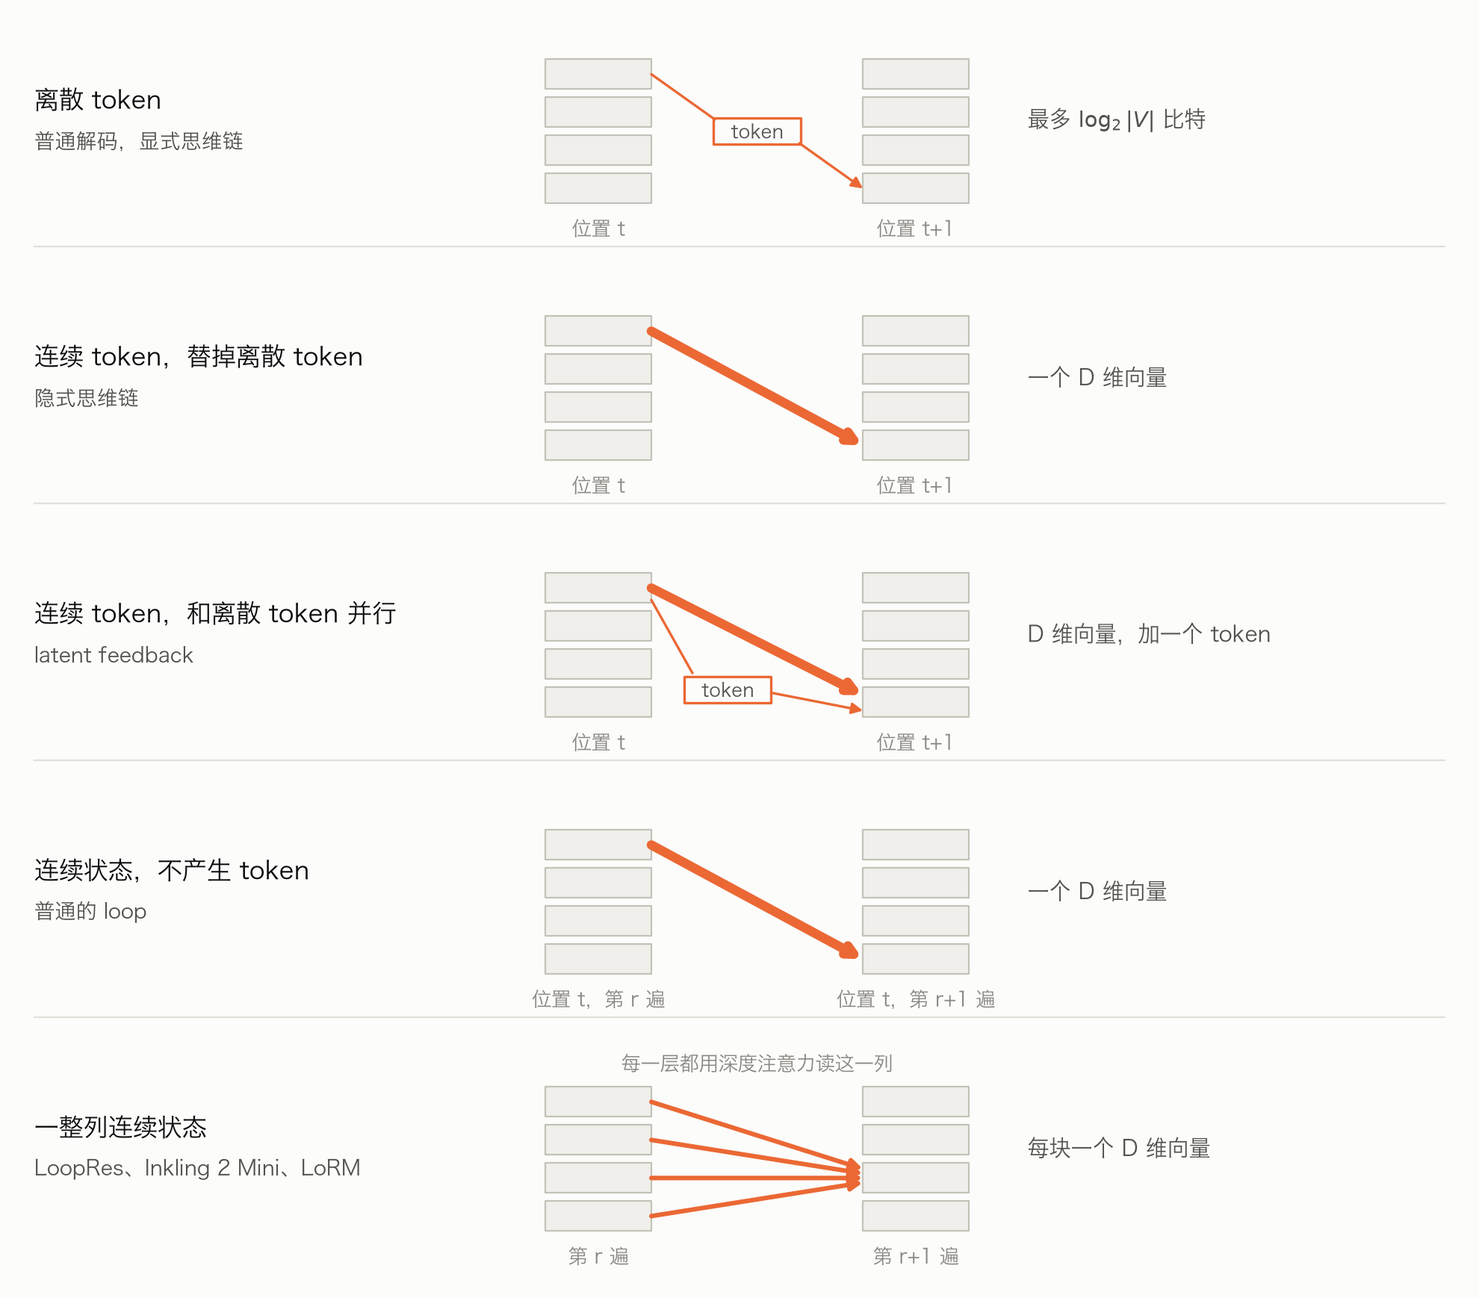
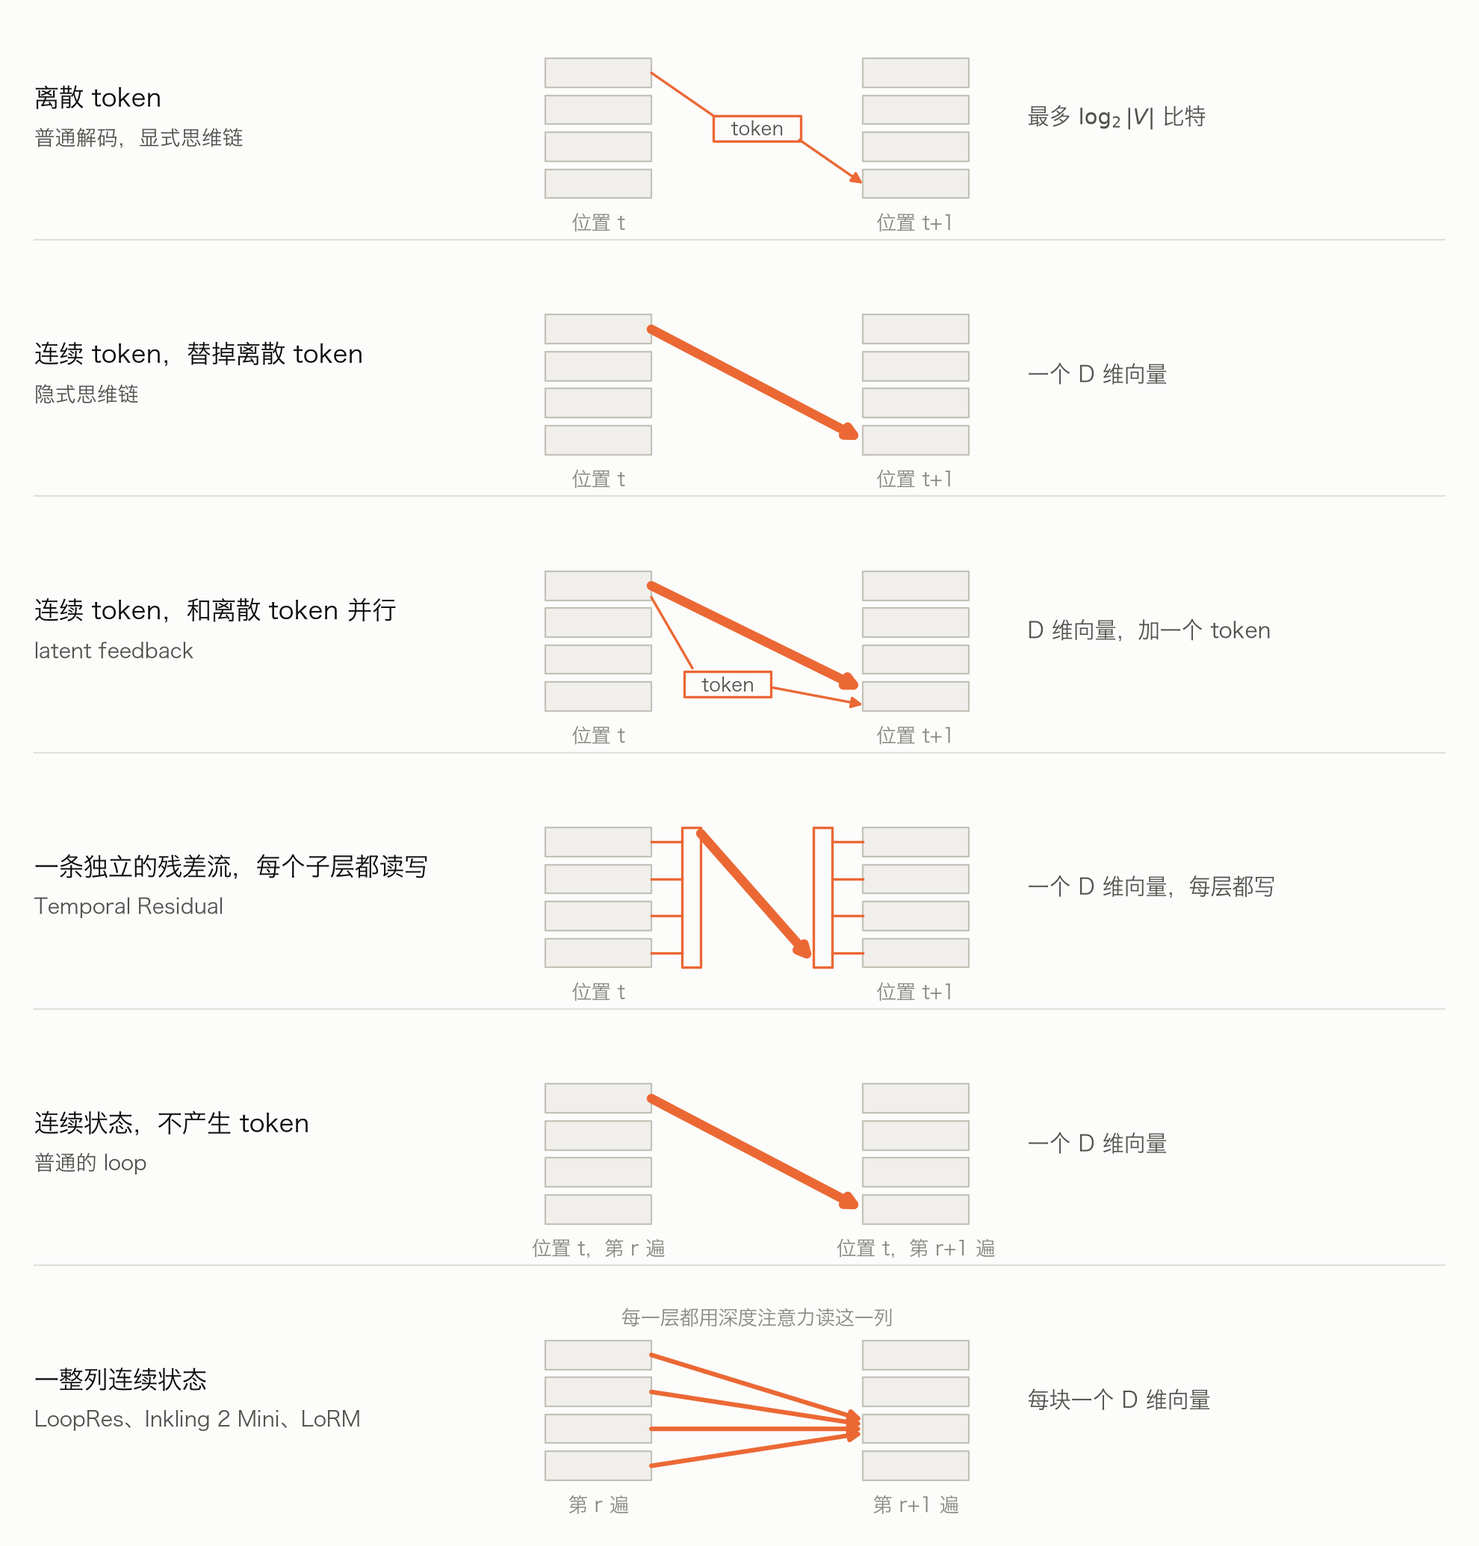
Add the temporal residual and the variable-loop model to the diffusion forcing post

diff --git a/blog/diffusion-forcing-duality/index.html b/blog/diffusion-forcing-duality/index.html
@@ -130,6 +130,31 @@
         </table>
         </div>
         <p>序列建模当年用注意力换掉了 RNN。AttnRes 在深度轴上做了同一步。论文把这叫 time–depth duality。</p>
+        <p>对偶也可以反着走。AttnRes 把注意力从时间搬到深度；把残差流从深度搬到时间，就是最近的 Temporal Residual。它给模型加第二条残差流，每个子层都读写，这条流在一个 token 结束时的值，归一化后成为下一个 token 的初值。论文自己的说法是，这是一条既跨层也跨 token 的残差连接。</p>
+        <p>这样四个格子就齐了：</p>
+        <div class="table-responsive">
+        <table class="table table-sm">
+        <thead>
+        <tr>
+        <th></th>
+        <th>递推：固定大小的状态</th>
+        <th>注意力：留着随用随取</th>
+        </tr>
+        </thead>
+        <tbody>
+        <tr>
+        <td>深度</td>
+        <td>残差流</td>
+        <td>AttnRes</td>
+        </tr>
+        <tr>
+        <td>时间</td>
+        <td>RNN，Temporal Residual</td>
+        <td>自注意力</td>
+        </tr>
+        </tbody>
+        </table>
+        </div>
         <p>有两处不严格。时间轴上的 query 由内容算出，深度轴上的 \(w_l\) 和输入无关。深度轴的"序列"是网络自己一层层生成的，\(v_l\) 要等前面的层算完才有。</p>
         <p>这个对偶只动了一根轴。被对偶的对象是一个序列模型，它本身只有时间这一根轴。如果被对偶的对象有两根轴呢？</p>
         <h2>2. 一个有两根轴的对象：diffusion forcing</h2>
@@ -278,6 +303,11 @@
         <td>latent feedback</td>
         </tr>
         <tr>
+        <td>一条独立的残差流，每个子层都读写</td>
+        <td>带到下一个 token</td>
+        <td>Temporal Residual</td>
+        </tr>
+        <tr>
         <td>一个连续状态，不产生 token</td>
         <td>同一个位置重算</td>
         <td>普通的 loop</td>
@@ -291,27 +321,39 @@
         </table>
         </div>
         <figure>
-        <img src="fig2_ladder.png" alt="图 2：五种做法的差别只在两处，遍与遍之间传多少（线的粗细和条数），以及传到哪。">
-        <figcaption class="note">图 2：五种做法的差别只在两处，遍与遍之间传多少（线的粗细和条数），以及传到哪。</figcaption>
+        <img src="fig2_ladder.png" alt="图 2：六种做法的差别只在两处，遍与遍之间传多少（线的粗细和条数），以及传到哪。">
+        <figcaption class="note">图 2：六种做法的差别只在两处，遍与遍之间传多少（线的粗细和条数），以及传到哪。</figcaption>
         </figure>
+        <p>沿着梯子往下，遍与遍之间传得越多，需要写出来的就越少。有两组数字：</p>
+        <ul>
+        <li><strong>Loop 的遍数。</strong> Thinking Machines 放出了一个遍数可调的研究模型。在 GPQA 上它每种遍数都答对的那些题，1 遍时平均写 3703 个推理 token，3 遍 1731 个，5 遍 1661 个，句子长度和用词没有变化。</li>
+        <li><strong>Latent feedback。</strong> Temporal Residual 改装后的模型，解题写的 token 少 9% 到 16%。把一部分推理换成填充 token 再训练，它在不写任何推理的情况下，GSM8K 的准确率从 21% 升到 40%；把带过去的状态清零，增益就没了。不带这条流的模型同样训练，填充 token 没有用。</li>
+        </ul>
+        <p>所以离散的回路和连续的回路可以互相替代。这也是它对监控重要的原因：推理可以不出现在文字里。</p>
         <h3>Loop 和 latent feedback 是同一个递推的两种跑法</h3>
         <p>Latent feedback 把上一个位置的顶层状态送回下一个位置的输入：</p>
         \[
         h_t = f\big(e_t,\; h_{t-1}\big)
         \]
         <p>这里 \(e_t\) 是第 \(t\) 个 token 的 embedding，\(f\) 是整叠层，它还会通过注意力读前面位置的状态。这样每来一个新 token，隐藏状态就被再细化一遍，解码时不用多跑。</p>
+        <p>上面是最简单的形式。Temporal Residual 把这条回路做成一条独立的残差流 \(B\)，和原来的残差流 \(A\) 并排：</p>
+        \[
+        u = r_A A + r_B B, \qquad y = f(u), \qquad A \leftarrow A + y, \qquad B \leftarrow B + s_B\, y
+        \]
+        <p>每个子层有自己的读权重 \(r_B\) 和写强度 \(s_B\)，\(B\) 在最后一层的值归一化后带到下一个 token。\(r_B\) 的初值是 0，所以改装后的模型一开始就是原模型。从哪一层取、送到哪一层，不用设计，由训练决定。解码是精确的逐 token 递推，每个序列只多存一个向量。</p>
         <p>Loop 是在同一个位置上反复算。Latent feedback 是把同一条回路摊到 token 轴上。噪声级在 loop transformer 里是 loop 的次数，在带 latent feedback 的 transformer 里就是序列位置。对不带反馈的普通 transformer，这句话不成立：新 token 带来的是新信息，不是对同一个状态的细化。</p>
         <h3>"遍"是什么：一个三角方程组的 Jacobi 迭代</h3>
         <p>逐 token 解码是前向代入，结果是精确的。训练时不能逐 token 跑，于是并行跑几遍，每一遍用上一遍的值：</p>
         \[
         h_t^{(p)} = f\big(e_t,\; h_{t-1}^{(p-1)}\big), \qquad h^{(0)} = 0
         \]
-        <p>这是对一个下三角方程组做 Jacobi 迭代。对 \(p\) 归纳就能看出它收敛得多快：位置 1 没有前驱，第 1 遍后就是精确的；位置 \(t\) 只依赖位置 \(t-1\) 及更早的位置在上一遍的状态，所以 \(t \le p\) 的位置在第 \(p\) 遍后都是精确的。</p>
+        <p>这是对一个下三角方程组做 Jacobi 迭代，精确的递推是它的不动点。Temporal Residual 的论文就是这样表述的。对 \(p\) 归纳就能看出它收敛得多快：位置 1 没有前驱，第 1 遍后就是精确的；位置 \(t\) 只依赖位置 \(t-1\) 及更早的位置在上一遍的状态，所以 \(t \le p\) 的位置在第 \(p\) 遍后都是精确的。</p>
         <figure>
         <img src="fig3_jacobi.png" alt="图 3：并行跑 遍后，哪些位置已经等于逐 token 解码的结果。这是一个随机权重的小网络，8 个位置，数值来自核对脚本。精确的区域每遍向右推进一格。">
         <figcaption class="note">图 3：并行跑 \(p\) 遍后，哪些位置已经等于逐 token 解码的结果。这是一个随机权重的小网络，8 个位置，数值来自核对脚本。精确的区域每遍向右推进一格。</figcaption>
         </figure>
         <p>实际远不用跑满。Full-bandwidth Transformer 报告 3 到 4 遍后 KV 的相对误差约 1%。IFM 的 latent feedback transformer（代码库叫 LoRM）直接用 4 遍当作逐 token 解码。但这不是白来的：前者发现只用一遍和两遍的 batch 训练时，递推滚过训练深度就会发散，混入 3% 的三遍 batch 才稳定下来。</p>
+        <p>少跑几遍够不够，取决于怎么训。Temporal Residual 比了八种训法。只用两遍训的模型，两遍时 loss 最低，八遍时最差，逐 token 解码的准确率和不带反馈的模型一样。跑六遍、只对最后两遍反传，loss 在三遍到八遍之间只差 0.0001。作者的解释是，截断反传让每一遍学的是：不管拿到什么状态，都把它变好一点。按我的读法，这正是一个去噪器该有的性质，在任何噪声级上都能往前走一步。</p>
         <p>训练用整序列并行的遍，解码用自回归。这正是 diffusion forcing 的"训练一次，采样时换 schedule"，已经有人在用了。</p>
         <h3>对偶在这里多给了什么</h3>
         <ul>
@@ -331,7 +373,7 @@
         <li>告诉读取方这是第几遍。Diffusion forcing 是把噪声级作为输入的。</li>
         </ol>
         <p>过去几个月里有三个模型做了前两样，其中一个做了第三样。</p>
-        <p><strong>Inkling 2 Mini</strong>（Thinking Machines，11 月 20 日）有 24 层，分成 4 个块，每块 6 层。第 1 块跑一遍，第 2、3 块 loop 三遍，第 4 块跑一遍。块内用 AttnRes。从第二遍起，每个子层对上一遍的第 2、3 块做一次深度注意力，得到一个 message，再经过一个低秩的门混进自己的输入。</p>
+        <p><strong>Inkling 2 Mini</strong>（Thinking Machines，11 月 20 日）有 24 层，分成 4 个块，每块 6 层。第 1 块跑一遍，第 2、3 块 loop 三遍，第 4 块跑一遍。块内用 AttnRes。从第二遍起，每个子层对上一遍的第 2、3 块做一次深度注意力，得到一个 message，再经过一个低秩的门混进自己的输入。门一开始把 message 完全挡住，所以训练是从不循环的模型出发的。</p>
         <p><strong>LoopRes</strong>（NUS）在预训练模型上微调出 loop。循环的那一段用 AttnRes，每个子层的源包括：不循环的前段的输出，上一 loop 的所有块，本 loop 里前面的块。它另外加了两样：每个块在每个 loop 有一个可训练的 key，以及只看上一个 loop 的窗口。</p>
         <p><strong>LoRM 的 AttnRes 加 latent feedback</strong>（IFM，只有代码）是 134M 的模型，12 层 6 个块。它把上一个位置的 6 个块作为额外的源，放进每一次深度读取。</p>
         <div class="table-responsive">
@@ -384,7 +426,7 @@
         <tr>
         <td>每个 token 独立的噪声级</td>
         <td>每层自己的 loop 次数</td>
-        <td>没有，固定 3 遍</td>
+        <td>没有。固定 3 遍，研究版整段一起变</td>
         <td>没有，固定</td>
         <td>没有</td>
         </tr>
@@ -392,7 +434,7 @@
         </table>
         </div>
         <p>有三点值得看。</p>
-        <p><strong>读法和对偶说的一样。</strong> Goodfire 分解了 Inkling 2 Mini 每一层的输入，发现第 3 块在后面的 loop 里几乎总是读自己上一 loop 的输出。这就是"读自己上一遍的值"。LoopRes 的分析类似：循环段的第一个块主要在更新自己上一 loop 的输出，第二个块主要依赖本 loop 的第一个块。LoRM 的第二遍读的是第一遍的第 5 到 10 层，不是顶层，而且只在自己的前 8 层读。</p>
+        <p><strong>读法和对偶说的一样。</strong> Goodfire 分解了 Inkling 2 Mini 每一层的输入，发现第 3 块在后面的 loop 里几乎总是读自己上一 loop 的输出。这就是"读自己上一遍的值"。LoopRes 的分析类似：循环段的第一个块主要在更新自己上一 loop 的输出，第二个块主要依赖本 loop 的第一个块。LoRM 的第二遍读的是第一遍的第 5 到 10 层，不是顶层，而且只在自己的前 8 层读。Temporal Residual 让每个子层自己学读写的权重，学出来也集中在中间：32 层里读的权重在第 15 层最高，写的强度从第 20 层往上不到 0.1，最上面三分之一的层几乎不写。</p>
         <p><strong>增益主要来自跨遍的深度读取。</strong> LoopRes 在 Qwen3-1.7B、两倍算力下，7 项评测的平均分是：Huginn 式的 loop 49.0，加上朴素的 AttnRes 53.9，LoopRes 55.8。LoRM 在相同训练算力下的验证 loss：</p>
         <div class="table-responsive">
         <table class="table table-sm">
@@ -422,7 +464,7 @@
         </tbody>
         </table>
         </div>
-        <p>只送回顶层不如不送，送回一整列才有收益。这一档的差距只有 0.004，数据多四倍的那一档是 0.017（2.3390 对 2.3556）。这是假设 1 目前仅有的直接证据，而且是他们报告的数字。</p>
+        <p>只送回顶层不如不送，送回一整列才有收益。这一档的差距只有 0.004，数据多四倍的那一档是 0.017（2.3390 对 2.3556）。Temporal Residual 在改装预训练模型的设置里有一个同方向的结果：把上一个 token 的顶层状态直接送进输入，只拿到它五分之一的增益。这两条是假设 1 目前的证据，都是他们报告的数字。后一条没有用深度注意力，只说明只送顶层不够。</p>
         <p><strong>读取方要被告知级别。</strong> LoopRes 发现靠内容分不开同一个块的各次迭代，直接优化的、按 loop 分的 key 才分得开。去掉它，四倍算力下的平均分从 57.8 掉到 55.8。</p>
         <p>Inkling 2 Mini 没有按遍分的参数，但 Goodfire 发现模型自己长出了一个：坐标 \(d_{2027}\) 在前两遍的末尾被写成很大的正值，RMS 归一化后平均 +32.4，一个坐标占了平方范数的 46%；到最后一遍又被清掉。它是下一遍决定"读第 3 块还是第 2 块"时贡献最大的几个坐标之一。Goodfire 的推测是最后一遍之后不再需要跨 loop 通信，所以模型把它抹掉。按我的读法，没人给它级别信号，它就自己腾出一个坐标来记。</p>
         <blockquote class="callout">
@@ -437,6 +479,7 @@
         <p>两边都是先读一个还没细化完的值，之后再修。这也正是 diffusion forcing 本来就允许的事：读还没去噪完的历史。</p>
         <h2>6. 还空着的一格：每层自己的 loop 次数</h2>
         <p>上一节的表里，最后一行三个模型都是"没有"。而这一行正是 diffusion forcing 名字的来历：训练时每个 token 有独立的噪声级。对偶过来，是每一层有自己的更新次数。</p>
+        <p>最接近的是 Thinking Machines 和 Inkling 2 Mini 一起放出的研究模型 TML-d24-varloop-research。它的中间 12 层在训练时跑 1 到 5 遍，按 1:2:6:2:1 采样，推理时遍数可以自己选。这相当于训练时随机取噪声级，但所有 token 取同一个。Huginn 更早做过同样的事。还空着的是每一层取各自的次数。</p>
         <h3>执行表</h3>
         <p>用第 3 节的记号，再加一张表 \(S_{k,i} \in \{0,1\}\)，表示第 \(k\) 遍里第 \(i\) 个格子是否更新。Diffusion forcing 的 schedule 矩阵和"哪一遍跑哪些层"是同一个对象。现有的架构各是一张填好的表：</p>
         <figure>
@@ -446,7 +489,7 @@
         <p>我核对过带执行表的式子：按 Inkling 2 Mini 那张表去跑，结果和直接写"前段一遍、中段三遍、后段一遍"的前向完全相同。</p>
         <h3>一个反对意见</h3>
         <p>每层跑几次，模型设计的时候就定了。想让某一段多算，就把它放进循环的那一段，或者干脆多堆几层。Inkling 2 Mini 的"1、3、3、1"本身就是一张逐块的次数表。</p>
-        <p>这张表怎么填是有差别的。LoopRes 论文的对比里，两种填法都用普通残差：四倍算力下，每个块连续重复再进下一块是 47.9 分，整段一起 loop 是 51.8 分。两倍算力下两者几乎一样，49.2 和 49.0。</p>
+        <p>这张表怎么填是有差别的。Thinking Machines 报告，循环中间 12 层比循环最后 12 层在 28 项评测里 27 项更好。折算成算力，不循环的模型要多花 1.51 到 1.91 倍才追得上前者，追上后者只要 1.24 到 1.36 倍。</p>
         <p>反过来问：既然一张固定的表有效，不同的表又有差别，这张表为什么要人来填？能不能做成可学习的参数或者结构？</p>
         <h3>已经有人在学这张表，但只学了一半</h3>
         <div class="table-responsive">
@@ -514,7 +557,7 @@
         <ul>
         <li><strong>没有加噪公式。</strong> Diffusion forcing 能用封闭公式直接造出任意噪声级的 token。"少更新两次的层输出"只能真的少算两次。</li>
         <li><strong>没有逐格的目标。</strong> Diffusion forcing 的每一格都有去噪损失，loop 模型只有最后的 next-token loss。目前没有定理说多 loop 一次等于去噪一步。"噪声级对应更新次数"是类比。</li>
-        <li><strong>一座可能的桥。</strong> 把 loop 看成不动点迭代，用到不动点的距离当噪声级。它是单调的，但不是一个分布，也没人证明训练出来的 loop 一定收缩。第 4 节里那个会发散的例子说明不保证。</li>
+        <li><strong>一座可能的桥。</strong> 把 loop 看成不动点迭代，用到不动点的距离当噪声级。它是单调的，但不是一个分布。训练出来的递推收不收缩要看训法：varloop 模型最多训到 5 遍，跑 10 遍没有明显变差；Temporal Residual 用截断反传训出来的模型，loss 在 3 到 8 遍之间几乎不变；第 4 节里只用一两遍训的例子则会发散。</li>
         <li><strong>权重不沿深度共享。</strong> Diffusion forcing 的所有 token 用同一个网络，这边每层的权重不同。</li>
         <li><strong>遍数差一个量级。</strong> 扩散有几十到上百个噪声级，现在的 loop 只有几遍。</li>
         <li><strong>网络还有第三根轴。</strong> 真实的 token 带来新信息。把 loop 和 token 都算作时间，只在带 latent feedback 时才严格。</li>
@@ -525,7 +568,7 @@
         <p><strong>观察 2.</strong> 现有的 loop 模型已经是 diffusion forcing 网格的转置。块内的 AttnRes 是它的时间轴，遍与遍之间那一列连续 token 是它的噪声轴。只是训练时只用了一张执行表。</p>
         <p><strong>假设 5.</strong> Diffusion forcing 从"所有 token 同一个噪声级"走到"每个 token 独立"，得到的是采样时任选 schedule 的自由。Loop 模型下一步会走同一段路：从一张设计时填好的执行表，走到在随机的表下训练、事后再选表。</p>
         </blockquote>
-        <p>Inkling 2 Mini 是从头训练的产品模型，LoopRes 是在预训练模型上微调，LoRM 是在研究 latent feedback。三家的出发点不同，却造出了几乎同一个结构。我愿意把这当作这个对偶不只是巧合的一点证据。</p>
+        <p>Inkling 2 Mini 是 Thinking Machines 自己训练的产品模型，LoopRes 是在预训练模型上微调，LoRM 是在研究 latent feedback。三家的出发点不同，却造出了几乎同一个结构。我愿意把这当作这个对偶不只是巧合的一点证据。</p>
         <hr />
         <h2>附录 A：记号</h2>
         <div class="table-responsive">
@@ -625,7 +668,8 @@
         <ul>
         <li>Attention Residuals：<a href="https://arxiv.org/abs/2603.15031">arXiv 2603.15031</a></li>
         <li>Diffusion Forcing：<a href="https://arxiv.org/abs/2407.01392">arXiv 2407.01392</a></li>
-        <li>Inkling 2 Mini 的解释工作：<a href="https://www.goodfire.com/research/interpreting-inkling-2-mini/">Goodfire, Interpreting Inkling 2 Mini</a></li>
+        <li>Inkling 2 Mini：<a href="https://thinkingmachines.ai/news/inkling-2-mini/">发布文</a>，<a href="https://thinkingmachines.ai/model-card/tml-d24-varloop-research/">TML-d24-varloop-research 模型卡</a>，<a href="https://www.goodfire.com/research/interpreting-inkling-2-mini/">Goodfire 的解释工作</a></li>
+        <li>Temporal Residual：<a href="https://jackcai.me/writing/temporal-residual/">介绍页</a>，<a href="https://jackcai.me/writing/temporal-residual.pdf">论文</a></li>
         <li>LoopRes：<a href="https://oahzxl.github.io/LoopRes/">项目页</a>，<a href="https://github.com/NUS-HPC-AI-Lab/LoopRes/blob/main/docs/paper.pdf">论文</a></li>
         <li>LoRM：<a href="https://github.com/ifm-ai/LoRM">代码仓库</a>，<a href="https://github.com/ifm-ai/LoRM/blob/main/works/attnres_feedback/README.md">AttnRes 加 latent feedback</a>，<a href="https://x.com/huskydogewoof/status/2123875819089023319">Feedback Shortcut 的推文</a></li>
         <li>Full-bandwidth Transformer：<a href="https://arxiv.org/abs/2608.08888">arXiv 2608.08888</a></li>
